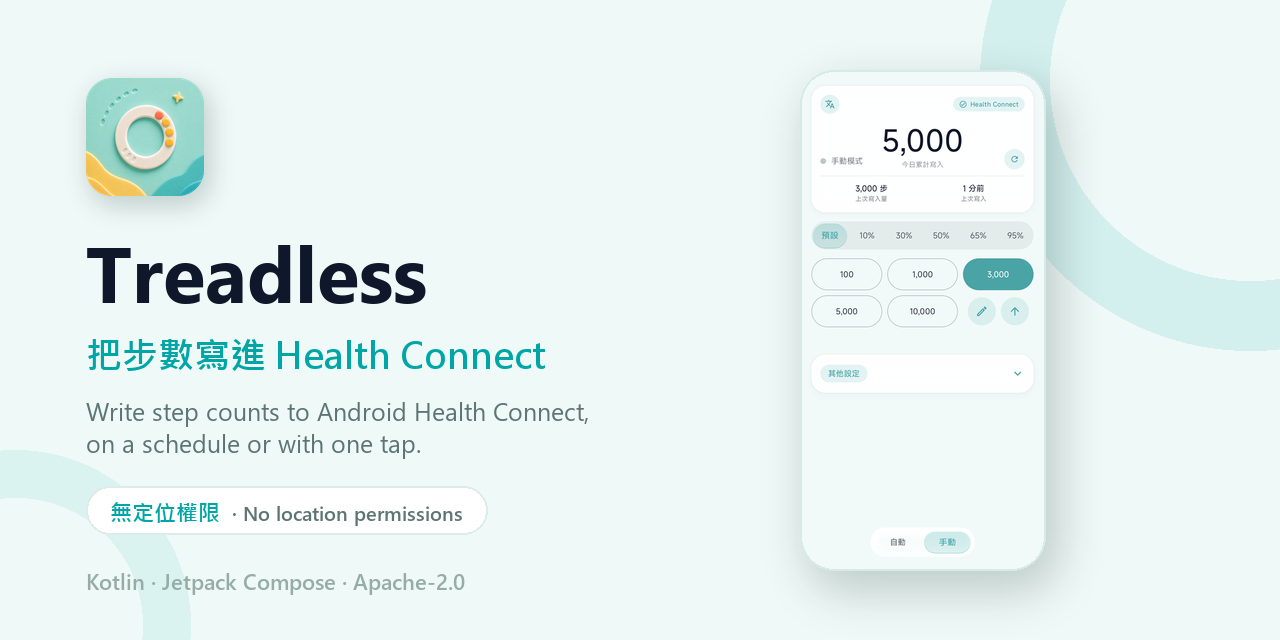
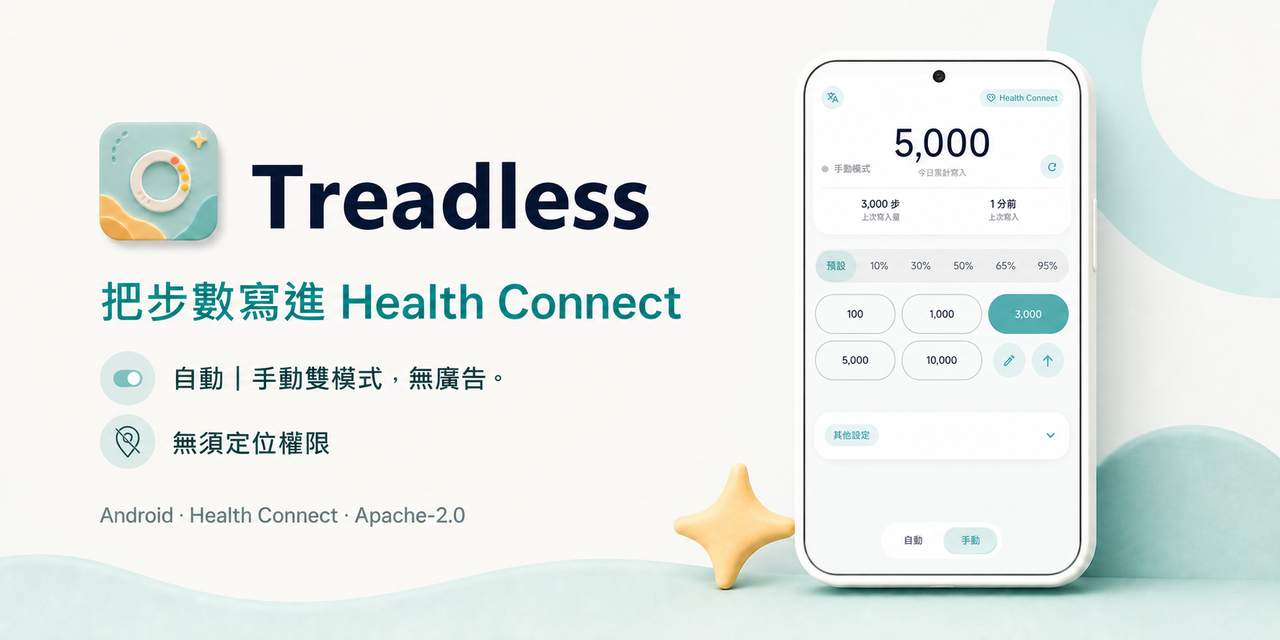
Swap in the final social preview image; show it at the top of both READMEs
The master image comes from design. Inside the repository it always lives at
docs/social-preview.png, so a new revision of the master never breaks the
README links.

Changed region(s): [[0.5312, 0.0, 1.0, 0.9688], [0.0625, 0.0938, 0.5312, 0.5], [0.0, 0.5312, 0.4688, 0.9375]]

diff --git a/README.md b/README.md
@@ -2,6 +2,8 @@
 
 **繁體中文** · [English](README.en.md)
 
+![Treadless](docs/social-preview.png)
+
 把設定好的步數，定時或按一下寫進 Android 的 **Health Connect**。
 
 **完全沒有任何定位權限**，和模擬 GPS 無關。

diff --git a/README.en.md b/README.en.md
@@ -2,6 +2,8 @@
 
 [繁體中文](README.md) · **English**
 
+![Treadless](docs/social-preview.png)
+
 Writes a chosen number of steps into Android **Health Connect**, either on a
 schedule or with a single tap.
 
